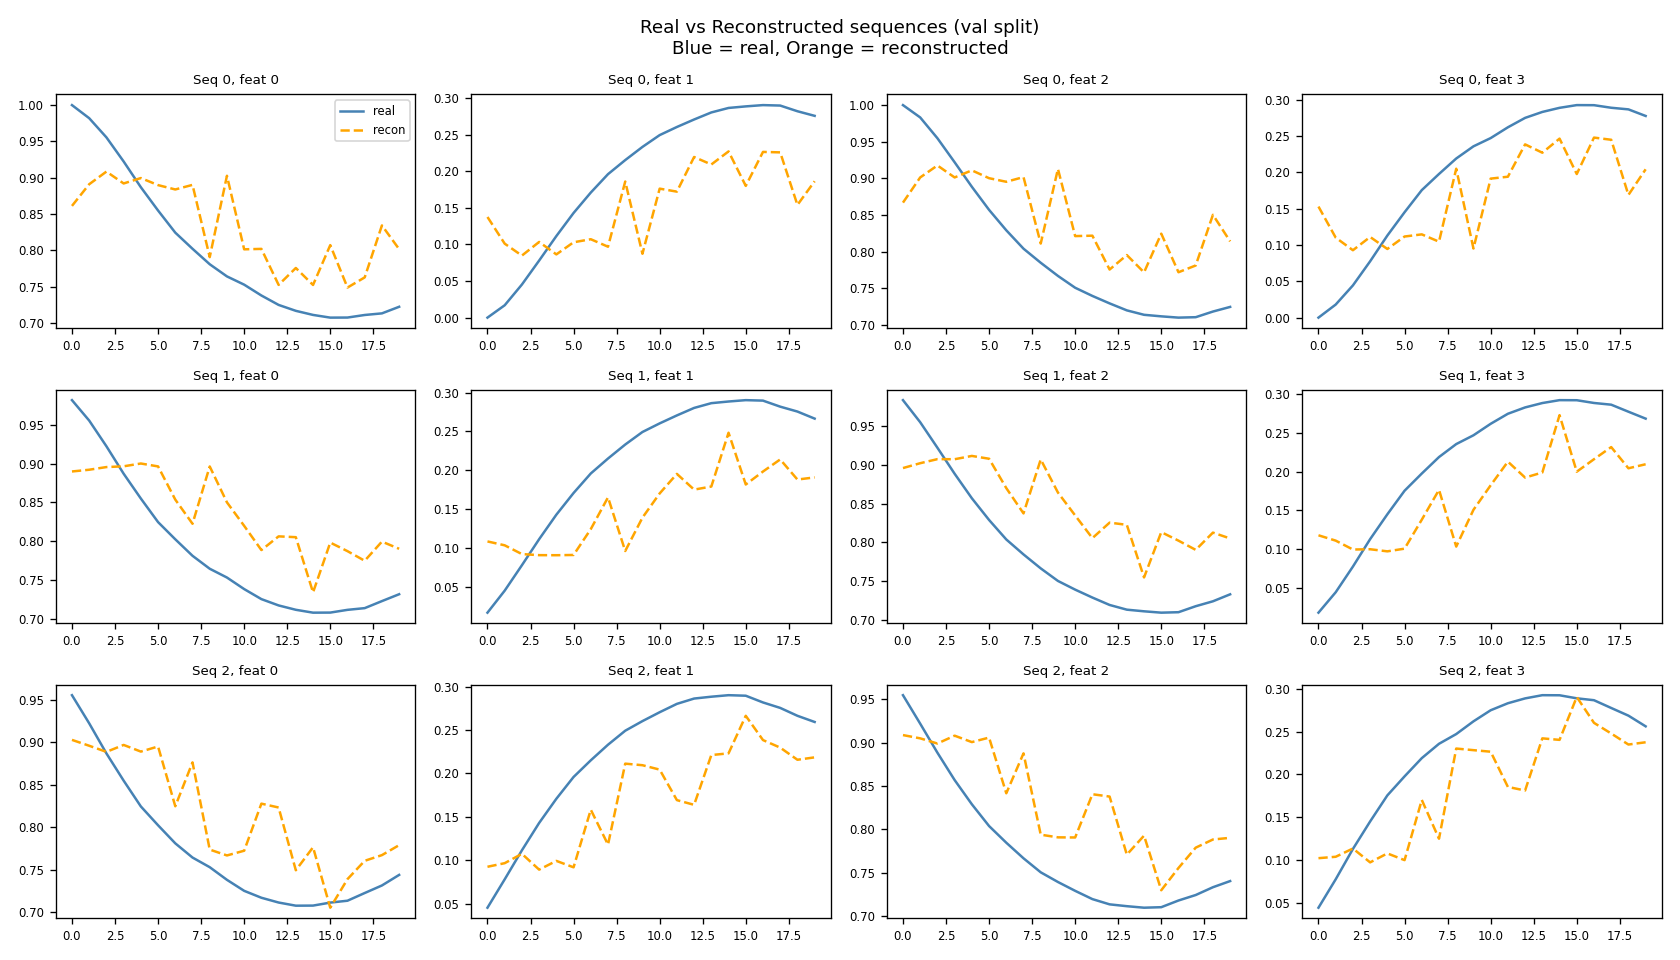
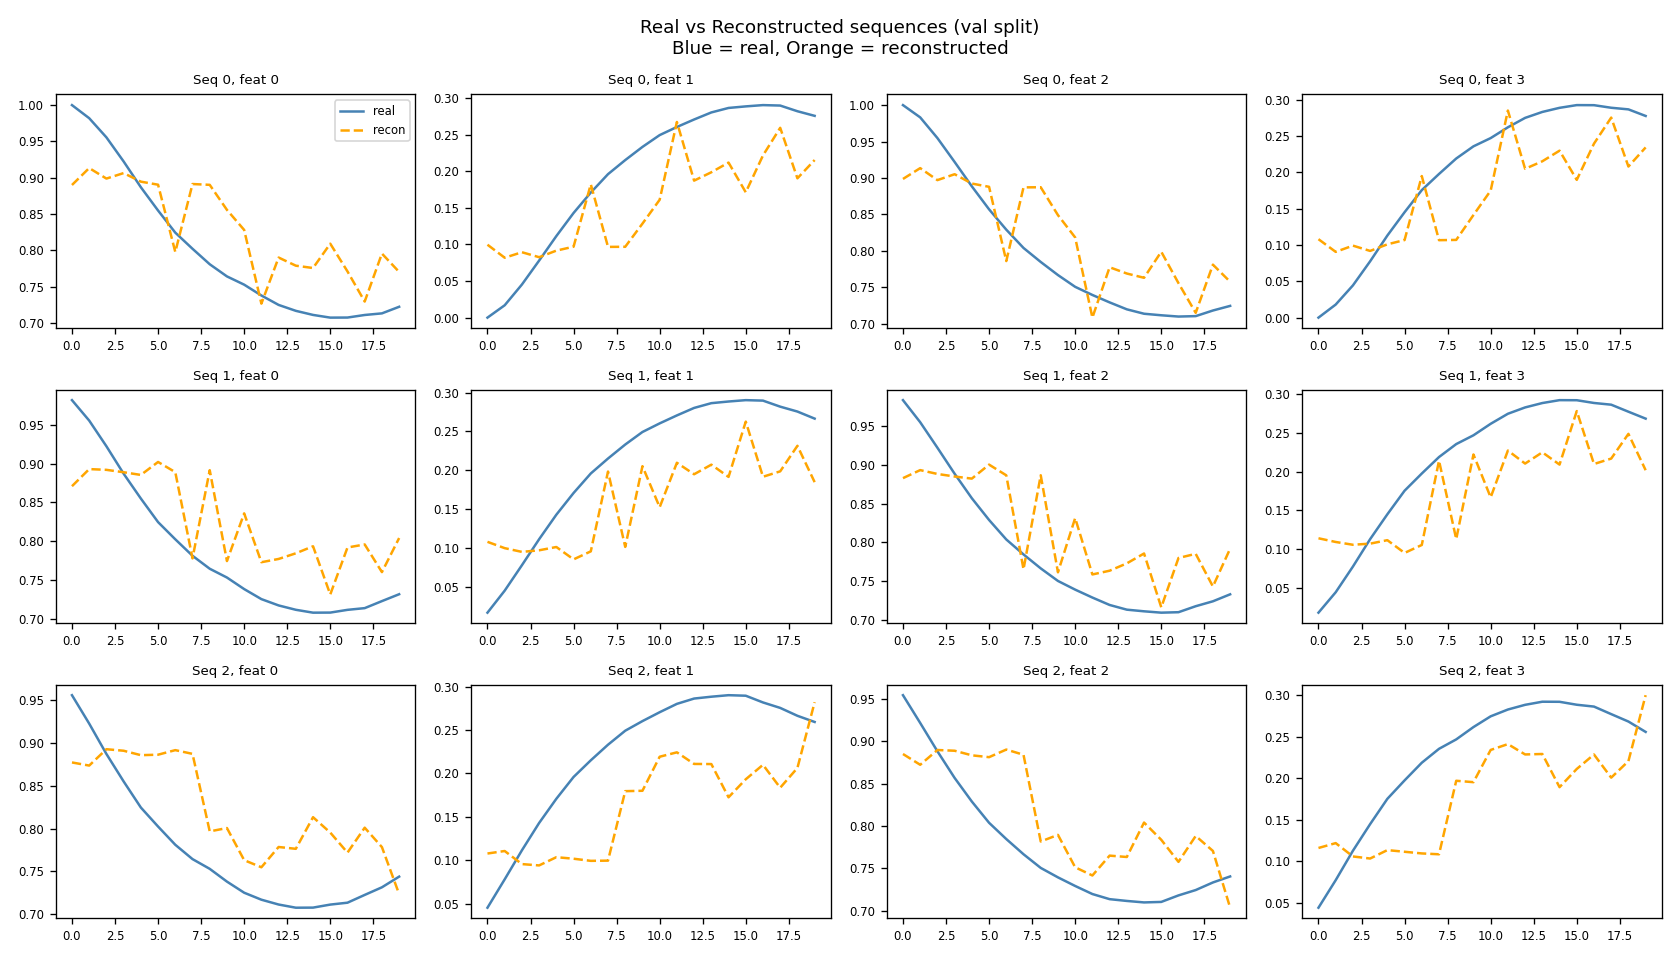
Add RTGaussianRBM with Gaussian visible units; fix Gibbs sampling using mean-field visible values; run initial experiments on MyoSuite reach data

diff --git a/experiments/train_reach_rt_gaussian.py b/experiments/train_reach_rt_gaussian.py
@@ -1,0 +1,212 @@
+"""
+Gaussian RTRBM training experiment on real MyoSuite biomechanical data.
+Companion to train_reach_rtrbm.py (Bernoulli) -- same data, same split,
+same hyperparameters where possible, so results are directly comparable.
+
+Key difference: RTGaussianRBM uses continuous-valued visible units
+instead of binary Bernoulli units, giving smoother reconstructions
+for continuous biomechanical data like joint angles and velocities.
+
+Environment: myoArmReachFixed-v0
+Episodes: 20 (each 151 timesteps, n_visible=78)
+Split: by episode -- 14 train / 3 val / 3 test (same seed as Bernoulli run)
+"""
+from sit_fuse_rtrbm.temporal.rt_gaussian_rbm import RTGaussianRBM
+from sit_fuse_rtrbm.datasets.sf_temporal_dataset import SFTemporalDataset
+from sklearn.preprocessing import MinMaxScaler
+import matplotlib.pyplot as plt
+import matplotlib
+import torch
+import numpy as np
+import glob
+import os
+import logging
+logging.disable(logging.CRITICAL)
+
+matplotlib.use("Agg")
+
+
+# ── Config ────────────────────────────────────────────────────────────────────
+DATA_DIR = "data/reach_fixed"
+OUT_DIR = "experiments/reach_training_gaussian"
+BERN_DIR = "experiments/reach_training"
+SEQ_LEN = 20
+N_VISIBLE = 78
+N_HIDDEN = 64
+BATCH_SIZE = 32
+EPOCHS = 30
+LR = 0.01
+os.makedirs(OUT_DIR, exist_ok=True)
+
+# ── Load all episode file paths ───────────────────────────────────────────────
+all_files = sorted(glob.glob(os.path.join(DATA_DIR, "episode_*.npy")))
+print(f"Found {len(all_files)} episodes")
+
+# ── Same split as Bernoulli run (same seed=42) for fair comparison ────────────
+np.random.seed(42)
+indices = np.random.permutation(len(all_files))
+train_files = [all_files[i] for i in indices[:14]]
+val_files = [all_files[i] for i in indices[14:17]]
+test_files = [all_files[i] for i in indices[17:]]
+print(
+    f"Split: {len(train_files)} train / {len(val_files)} val / {len(test_files)} test")
+
+# ── Fit scaler on training data only ─────────────────────────────────────────
+scaler = MinMaxScaler()
+for fpath in train_files:
+    ep = np.load(fpath).astype(np.float32)
+    scaler.partial_fit(ep)
+print("Scaler fitted on training data.")
+
+# ── Build datasets ────────────────────────────────────────────────────────────
+
+
+def load_and_scale(files, scaler, seq_len, do_shuffle):
+    all_data, all_targets = [], []
+    for trial_idx, fpath in enumerate(files):
+        ep = np.load(fpath).astype(np.float32)
+        ep_scaled = scaler.transform(ep)
+        targets = np.array([(trial_idx, t) for t in range(len(ep))])
+        all_data.append(ep_scaled)
+        all_targets.append(targets)
+    combined_data = np.concatenate(all_data, axis=0)
+    combined_targets = np.concatenate(all_targets, axis=0)
+    ds = SFTemporalDataset()
+    ds.init_from_array(combined_data, combined_targets,
+                       seq_len=seq_len, do_shuffle=do_shuffle)
+    return ds
+
+
+train_ds = load_and_scale(train_files, scaler, SEQ_LEN, do_shuffle=True)
+val_ds = load_and_scale(val_files,   scaler, SEQ_LEN, do_shuffle=False)
+
+print(f"Train sequences: {len(train_ds)}")
+print(f"Val sequences:   {len(val_ds)}")
+
+sample_seq, _ = train_ds[0]
+print(f"Sample sequence shape: {sample_seq.shape}")
+print(f"Scaled value range: [{sample_seq.min():.3f}, {sample_seq.max():.3f}]")
+
+# ── Build Gaussian model ──────────────────────────────────────────────────────
+# normalize=False: data already scaled externally with MinMaxScaler,
+# so we don't want additional per-batch normalization on top of that.
+model = RTGaussianRBM(
+    n_visible=N_VISIBLE,
+    n_hidden=N_HIDDEN,
+    steps=1,
+    learning_rate=LR,
+    momentum=0.0,
+    decay=0.0,
+    temperature=1.0,
+    use_gpu=False,
+    normalize=True,
+    input_normalize=False,
+)
+print(f"\nModel: RTGaussianRBM(n_visible={N_VISIBLE}, n_hidden={N_HIDDEN})")
+
+# ── Train ─────────────────────────────────────────────────────────────────────
+print(f"\nTraining for {EPOCHS} epochs...")
+model.fit(train_ds, batch_size=BATCH_SIZE, epochs=EPOCHS)
+
+train_mse_history = model.history["mse"]
+print(f"\nFinal train MSE: {train_mse_history[-1]:.4f}")
+
+# Save MSE history for comparison
+np.save(os.path.join(OUT_DIR, "mse_history.npy"),
+        np.array(train_mse_history))
+
+# ── Reconstruct on val split ──────────────────────────────────────────────────
+print("\nReconstructing on validation split...")
+val_mse, val_probs = model.reconstruct(val_ds)
+print(f"Val reconstruction MSE: {val_mse:.4f}")
+
+# Save val probs for comparison plot
+np.save(os.path.join(OUT_DIR, "val_probs.npy"),
+        val_probs.detach().numpy())
+
+# ── Plot 1: Training MSE ──────────────────────────────────────────────────────
+fig, ax = plt.subplots(figsize=(10, 4))
+ax.plot(range(1, EPOCHS + 1), train_mse_history,
+        color="darkorange", linewidth=2, label="Gaussian RTRBM")
+ax.set_xlabel("Epoch")
+ax.set_ylabel("MSE")
+ax.set_title(f"RTGaussianRBM Training MSE — myoArmReachFixed-v0\n"
+             f"(n_visible={N_VISIBLE}, n_hidden={N_HIDDEN}, seq_len={SEQ_LEN})")
+ax.grid(True, alpha=0.3)
+ax.legend()
+plt.tight_layout()
+plt.savefig(os.path.join(OUT_DIR, "training_mse_gaussian.png"), dpi=120)
+plt.close()
+print("Saved: training_mse_gaussian.png")
+
+# ── Plot 2: Gaussian real vs reconstructed ───────────────────────────────────
+N_TO_PLOT = 3
+N_FEAT_SHOW = 4
+
+fig, axes = plt.subplots(N_TO_PLOT, N_FEAT_SHOW, figsize=(14, 8))
+fig.suptitle("Real vs Reconstructed — RTGaussianRBM (val split)\n"
+             "Blue = real, Orange = reconstructed (continuous)", fontsize=11)
+
+for seq_idx in range(N_TO_PLOT):
+    real_seq, _ = val_ds[seq_idx]
+    recon = val_probs[seq_idx].detach().numpy()
+    for feat_idx in range(N_FEAT_SHOW):
+        ax = axes[seq_idx, feat_idx]
+        ax.plot(real_seq[:, feat_idx], color="steelblue",
+                label="real" if feat_idx == 0 else "")
+        ax.plot(recon[:, feat_idx], color="darkorange",
+                linestyle="--", label="recon" if feat_idx == 0 else "")
+        ax.set_title(f"Seq {seq_idx}, feat {feat_idx}", fontsize=8)
+        ax.tick_params(labelsize=7)
+        if feat_idx == 0 and seq_idx == 0:
+            ax.legend(fontsize=7)
+
+plt.tight_layout()
+plt.savefig(os.path.join(
+    OUT_DIR, "real_vs_reconstructed_gaussian.png"), dpi=120)
+plt.close()
+print("Saved: real_vs_reconstructed_gaussian.png")
+
+# ── Plot 3: Side-by-side Bernoulli vs Gaussian (the key comparison) ──────────
+bern_probs_path = os.path.join(BERN_DIR, "val_probs.npy")
+if os.path.exists(bern_probs_path):
+    bern_probs = np.load(bern_probs_path)
+    fig, axes = plt.subplots(2, N_FEAT_SHOW, figsize=(14, 6))
+    fig.suptitle("Bernoulli vs Gaussian RTRBM — same val sequence\n"
+                 "Blue = real, Orange = reconstructed", fontsize=11)
+
+    real_seq, _ = val_ds[0]
+    rows = [("Bernoulli RTRBM (binary outputs)", bern_probs[0]),
+            ("Gaussian RTRBM (continuous outputs)", val_probs[0].detach().numpy())]
+
+    for row_idx, (title, recon) in enumerate(rows):
+        for feat_idx in range(N_FEAT_SHOW):
+            ax = axes[row_idx, feat_idx]
+            ax.plot(real_seq[:, feat_idx], color="steelblue",
+                    label="real" if feat_idx == 0 else "")
+            ax.plot(recon[:, feat_idx], color="darkorange",
+                    linestyle="--", label="recon" if feat_idx == 0 else "")
+            if feat_idx == 0:
+                ax.set_ylabel(title, fontsize=7)
+            ax.set_title(f"feat {feat_idx}", fontsize=8)
+            ax.tick_params(labelsize=7)
+            if feat_idx == 0 and row_idx == 0:
+                ax.legend(fontsize=7)
+
+    plt.tight_layout()
+    plt.savefig(os.path.join(OUT_DIR, "bernoulli_vs_gaussian.png"), dpi=120)
+    plt.close()
+    print("Saved: bernoulli_vs_gaussian.png")
+else:
+    print("Note: run train_reach_rtrbm.py with val_probs saving first for comparison plot")
+
+# ── Summary ───────────────────────────────────────────────────────────────────
+print(f"\n{'='*50}")
+print(f"Gaussian RTRBM training complete.")
+print(f"  Train MSE (first epoch):  {train_mse_history[0]:.4f}")
+print(f"  Train MSE (final epoch):  {train_mse_history[-1]:.4f}")
+print(
+    f"  MSE improvement:          {train_mse_history[0] - train_mse_history[-1]:.4f}")
+print(f"  Val reconstruction MSE:   {val_mse:.4f}")
+print(f"  Plots saved to:           {OUT_DIR}/")
+print(f"{'='*50}")

diff --git a/src/sit_fuse_rtrbm/temporal/rt_gaussian_rbm.py b/src/sit_fuse_rtrbm/temporal/rt_gaussian_rbm.py
@@ -7,11 +7,12 @@ The recurrent mechanism (W_prime, h0, hidden_sampling, fit_subseries,
 fit, forward, reconstruct, sample) is inherited unchanged from RTRBM --
 recurrence only touches the hidden layer, not the visible one.
 
-Only three things change vs. Bernoulli RTRBM:
-  1. energy()          -- quadratic visible term (v - a)^2 instead of -v*a
+Only four things change vs. Bernoulli RTRBM:
+  1. energy()           -- quadratic visible term (v - a)^2 instead of -v*a
   2. visible_sampling() -- linear activations, not Bernoulli samples
-  3. normalize/input_normalize -- optional per-batch normalization,
-     matching GaussianRBM's convention in gaussian_rbm.py
+  3. normalize/input_normalize -- per-batch normalization flags
+  4. fit_subseries()    -- applies per-batch normalization before training,
+                          mirroring GaussianRBM.fit()'s normalize step
 
 References:
     I. Sutskever, G. Hinton, G. Taylor. The recurrent temporal restricted
@@ -147,6 +148,148 @@ class RTGaussianRBM(RTRBM):
         energy = v - h
 
         return energy
+
+    def gibbs_sampling(
+        self, v: torch.Tensor, h_prev: torch.Tensor
+    ):
+        """Overrides RTRBM.gibbs_sampling for Gaussian visible units.
+
+        KEY FIX: For Gaussian visible units, uses the mean field value
+        (linear activation) directly during the Gibbs loop instead of
+        sampling noisy visible states. This is standard practice for
+        Gaussian-Bernoulli RBMs -- see:
+
+        Hinton & Salakhutdinov (2006): "rather than sampling from the
+        distribution, the visible units can be set equal to their means"
+
+        Using sampled values introduces noise that causes activation
+        explosion and NaN during CD-k with continuous visible units,
+        especially when combined with per-batch normalization.
+        """
+        pos_hidden_probs, pos_hidden_states = self.hidden_sampling(v, h_prev)
+        neg_hidden_states = pos_hidden_states
+
+        for _ in range(self.steps):
+            # Use visible_probs (mean field) not visible_states (samples)
+            # for Gaussian visible units -- prevents activation explosion
+            visible_probs, visible_states = self.visible_sampling(
+                neg_hidden_states, True
+            )
+
+            neg_hidden_probs, neg_hidden_states = self.hidden_sampling(
+                visible_probs, h_prev, True
+            )
+
+        return (
+            pos_hidden_probs,
+            pos_hidden_states,
+            neg_hidden_probs,
+            neg_hidden_states,
+            visible_probs,
+        )
+
+    def hidden_sampling(
+        self, v: torch.Tensor, h_prev: torch.Tensor, scale: bool = False
+    ):
+        """Overrides RTRBM.hidden_sampling to clamp probabilities and
+        guard against NaN values in h_prev.
+
+        After per-batch normalization, large activations during Gibbs
+        sampling can produce NaN hidden states that propagate through
+        the recurrent chain. Clamping h_prev and probs prevents this.
+        """
+        # Guard against NaN in h_prev -- can occur during Gibbs sampling
+        # after normalization makes activations large
+        h_prev = torch.nan_to_num(h_prev, nan=0.0)
+        h_prev = torch.clamp(h_prev, 0.0, 1.0)
+
+        recurrent_bias = F.linear(h_prev, self.W_prime, self.b)
+        activations = F.linear(v, self.W.t()) + recurrent_bias
+
+        if scale:
+            probs = torch.sigmoid(torch.div(activations, self.T))
+        else:
+            probs = torch.sigmoid(activations)
+
+        # Clamp to avoid numerical issues with torch.bernoulli
+        probs = torch.clamp(probs, 1e-6, 1 - 1e-6)
+        states = torch.bernoulli(probs)
+
+        return probs, states
+
+    def fit_subseries(self, sequence: torch.Tensor) -> torch.Tensor:
+        """Overrides RTRBM.fit_subseries to apply per-batch normalization
+        before training, mirroring GaussianRBM.fit()'s normalize step
+        (gaussian_rbm.py lines 184-188).
+
+        Per-batch normalization (zero mean, unit std per feature) is
+        essential for Gaussian visible units -- without it, the unbounded
+        linear activations cause the model to collapse to outputting a
+        constant value (the data mean) immediately, ignoring the data
+        structure entirely. This is a known issue with Gaussian RBMs
+        documented in Cho, Ilin & Raiko (2011).
+
+        The normalization is applied per-subseries batch, not globally --
+        same as GaussianRBM.fit() does per-batch. This is separate from
+        the external MinMaxScaler preprocessing, which scales across the
+        full dataset.
+
+        Args:
+            sequence: One subseries, shape (batch, seq_len, n_visible).
+
+        Returns:
+            MSE for this subseries.
+        """
+        if self.normalize:
+            batch_size, seq_len, n_visible = sequence.shape
+            flat = sequence.reshape(-1, n_visible)
+            flat = (
+                (flat - torch.mean(flat, 0, True))
+                / (torch.std(flat, 0, True) + 1e-6)
+            ).detach()
+            sequence = flat.reshape(batch_size, seq_len, n_visible)
+
+        # Run the full subseries training loop with gradient clipping.
+        # We can't call super().fit_subseries() and add clipping after
+        # since the optimizer.step() is inside that method. Instead we
+        # replicate the loop here with clipping added -- matches the
+        # same pattern but adds stability for Gaussian training.
+        batch_size, seq_len, n_visible = sequence.shape
+        h_prev = self.h0.unsqueeze(0).expand(batch_size, -1)
+        self.optimizer.zero_grad()
+
+        total_cost = torch.tensor(0.0)
+        total_mse = torch.tensor(0.0)
+
+        for t in range(seq_len):
+            v_t = sequence[:, t, :]
+            _, _, _, _, visible_states = self.gibbs_sampling(v_t, h_prev)
+            visible_states = visible_states.detach()
+
+            cost_t = torch.mean(self.energy(v_t, h_prev)) - torch.mean(
+                self.energy(visible_states, h_prev)
+            )
+            total_cost = total_cost + cost_t
+
+            batch_mse = torch.div(
+                torch.sum(torch.pow(v_t - visible_states, 2)), batch_size
+            ).detach()
+            total_mse = total_mse + batch_mse
+
+            h_prev, _ = self.hidden_sampling(v_t, h_prev)
+            # Guard against NaN propagation through the recurrent chain
+            h_prev = torch.nan_to_num(h_prev, nan=0.5)
+            h_prev = torch.clamp(h_prev, 0.0, 1.0)
+
+        total_cost.backward()
+
+        # Gradient clipping -- prevents weight explosion when training
+        # with per-batch normalized data, which can produce large gradients.
+        torch.nn.utils.clip_grad_norm_(self.parameters(), max_norm=1.0)
+
+        self.optimizer.step()
+
+        return total_mse
 
     def visible_sampling(
         self, h: torch.Tensor, scale: bool = False

diff --git a/experiments/train_reach_rtrbm.py b/experiments/train_reach_rtrbm.py
@@ -109,6 +109,9 @@ print(f"\nFinal train MSE: {train_mse_history[-1]:.4f}")
 # ── Reconstruct on val split ──────────────────────────────────────────────────
 print("\nReconstructing on validation split...")
 val_mse, val_probs = model.reconstruct(val_ds)
+# Save val probs and MSE history for Gaussian comparison plot
+np.save(os.path.join(OUT_DIR, "val_probs.npy"), val_probs.detach().numpy())
+np.save(os.path.join(OUT_DIR, "mse_history.npy"), np.array(train_mse_history))
 print(f"Val reconstruction MSE: {val_mse:.4f}")
 
 # ── Plot 1: Training MSE over epochs ─────────────────────────────────────────